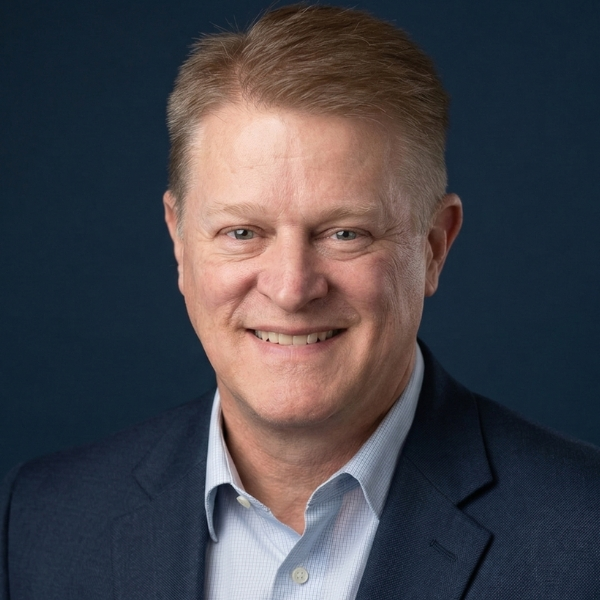
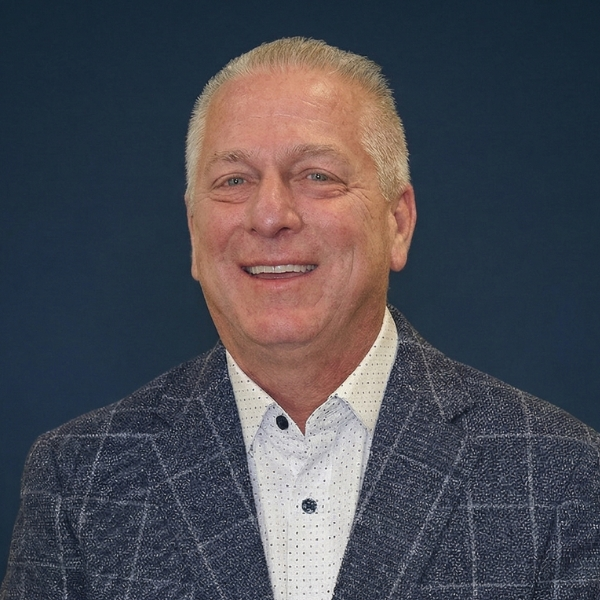
Fix speaker photo assignments, reorder speakers, add Buddy Sell placeholder
Restore original correct photo assignments for Michael, Patrick, and
Troy. Reorder speakers to: Michael, Patrick, Buddy Sell, Troy. Update
Troy's title to Interim CFO. Add Buddy Sell (Executive Advisor to the
CEO) with initials placeholder pending photo upload.

https://claude.ai/code/session_01ENiLvVmZSx9ifxtHNV2Con

diff --git a/app/data/summit-content.ts b/app/data/summit-content.ts
@@ -60,16 +60,16 @@ export const speakers = [
     objectPosition: "48% 52%",
   },
   {
+    name: "Buddy Sell",
+    role: "Executive Advisor to the CEO",
+    image: "",
+    objectPosition: "50% 50%",
+  },
+  {
     name: "Troy McKissick",
     role: "Interim CFO",
     image: "/images/troy-mckissick.jpg",
     objectPosition: "50% 53%",
-  },
-  {
-    name: "Buddy Sell",
-    role: "Executive Advisor to the CEO",
-    image: "/images/buddy-sell.jpg",
-    objectPosition: "50% 50%",
   },
 ];
 